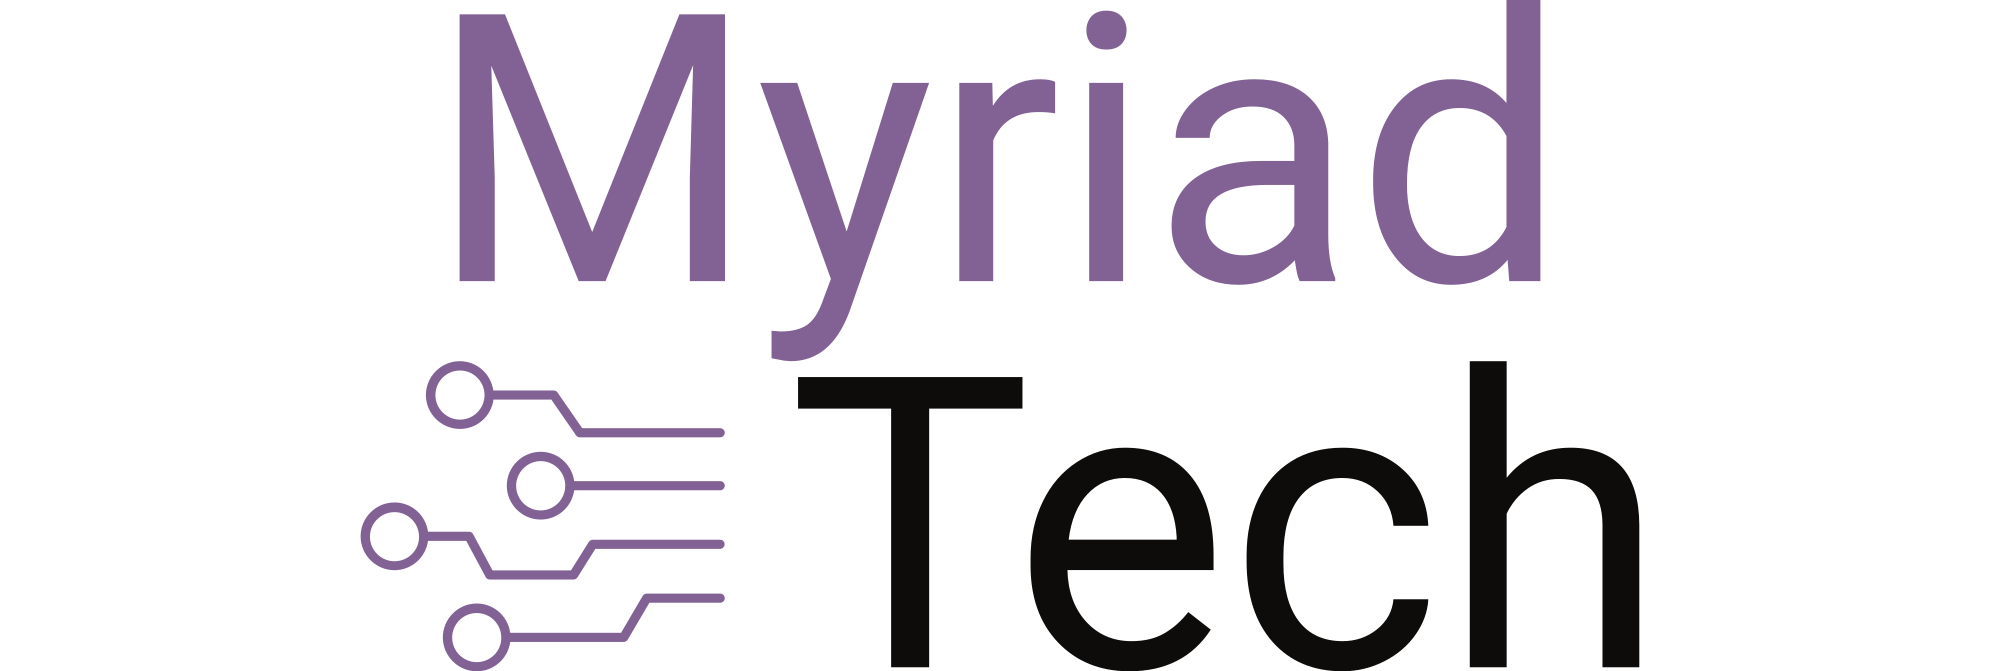
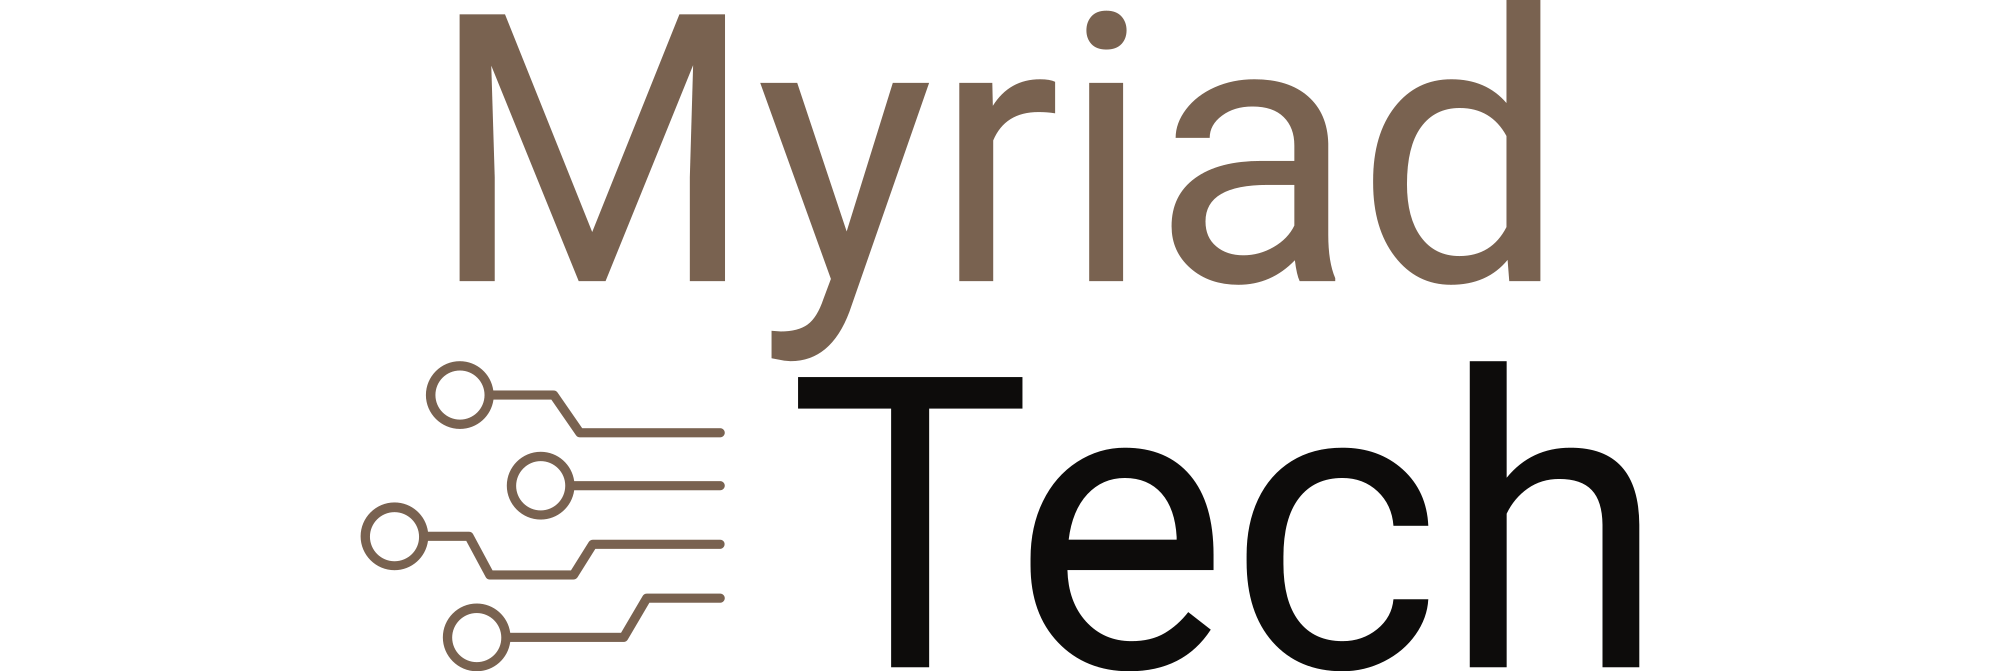
Color chane

diff --git a/components/Services.jsx b/components/Services.jsx
@@ -30,7 +30,7 @@ const Services = () => {
     },
   ];
   return (
-    <section className="mb-12 xl:mb-36 bg-purple-light py-12 pb-20">
+    <section className="mb-12 xl:mb-36 bg-bej-light py-12 pb-20">
       <div className="container mx-auto">
         <h2 className="section-title mb-24 text-center mx-auto">
           <Dot />
@@ -44,7 +44,7 @@ const Services = () => {
                 key={index}
                 className="w-full bg-accent/0 max-w-[424px] h-[320px] flex flex-col pt-16 pb-10 justify-center items-center relative"
               >
-                <CardHeader className="text-accent absolute -top-[65px] bg-purple-light">
+                <CardHeader className="text-accent absolute -top-[65px] bg-bej-light">
                   <div className="flex justify-center items-center w-[140px] h-[80px]">
                     {item.icon}
                   </div>

diff --git a/tailwind.config.js b/tailwind.config.js
@@ -21,23 +21,21 @@ module.exports = {
       xl: "1200px",
     },
     colors: {
-      accent: "#826294",
+      accent: "#796250",
       body: {
-        DEFAULT: "#F0F0F5",
-        toast: "#e5e5e5",
-        // F0F0F5
-        // e5e5e5
+        DEFAULT: "#f9f4f0",
+        // toast: "#e5e5e5",
       },
       white: "#fff",
       black: {
         DEFAULT: "#0d0c0b",
         heavy: "#000000",
       },
-      purple: {
-        light: "#e5e2eb",
+      bej: {
+        light: "#efebe9",
       },
       grey: {
-        DEFAULT: "#232323",
+        // DEFAULT: "#232323",
         light: "#ECECEC",
       },
       red: {
